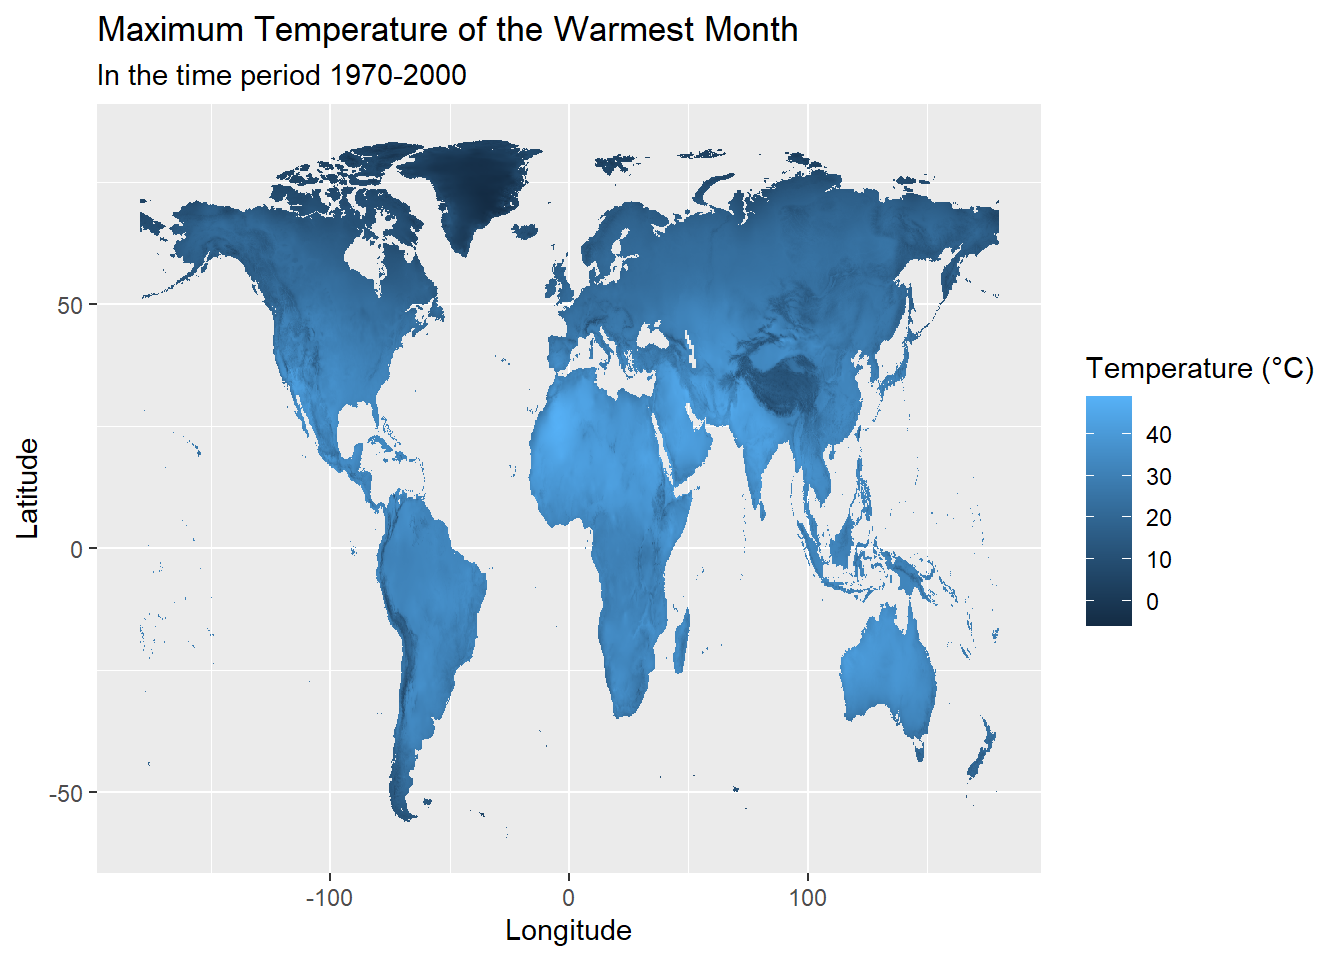
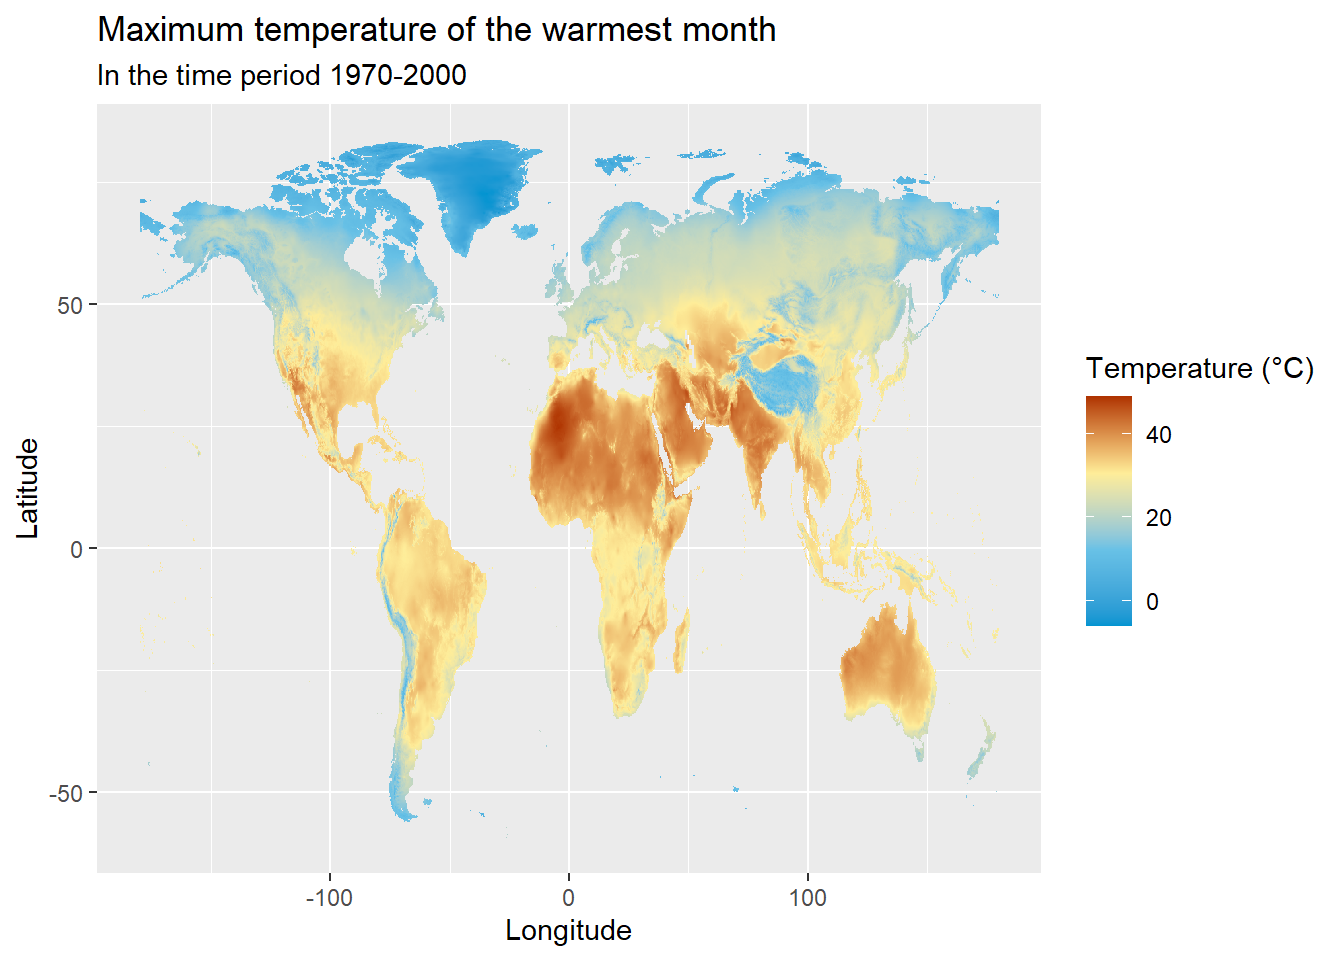
added Nigeria example to temperature tutorial

diff --git a/docs/temperature.html b/docs/temperature.html
@@ -435,26 +435,91 @@ tmax_data &lt;- getData(name = &quot;worldclim&quot;, var = &quot;tmax&quot;, re
 ## source     : C:/Users/acer/Desktop/rspatialdata.github.io/wc10/tmax5.bil 
 ## names      : tmax5 
 ## values     : -19, 44.1  (min, max)</code></pre>
-<p>It might also be important to get an average of the monthly maximum temperature values, which can be done as follows. Note how the RasterStack object is converted to a RasterLayer object with a single set of values.</p>
-<pre class="r"><code>tmax_mean &lt;- mean(tmax_data)
-tmax_mean</code></pre>
-<pre><code>## class      : RasterLayer 
-## dimensions : 900, 2160, 1944000  (nrow, ncol, ncell)
-## resolution : 0.1666667, 0.1666667  (x, y)
-## extent     : -180, 180, -60, 90  (xmin, xmax, ymin, ymax)
-## crs        : +proj=longlat +datum=WGS84 +no_defs 
-## source     : C:/Users/acer/AppData/Local/Temp/RtmpQ3RoHo/raster/r_tmp_2021-01-31_235507_9928_43074.grd 
-## names      : layer 
-## values     : -25, 38.03333  (min, max)</code></pre>
 </div>
-<div id="visualising-the-maximum-temperature-data-with-ggplot2" class="section level2">
-<h2>Visualising the Maximum temperature data with <code>ggplot2</code></h2>
+<div id="visualising-the-data-with-ggplot2" class="section level2">
+<h2>Visualising the data with <code>ggplot2</code></h2>
 <p>The <code>ggplot2</code> package provides the <code>geom_raster()</code> function, which can be used to easily visualise the downloaded temperature.</p>
-<p>The following example visualises the mean of the monthly maximum temperatures across the world. Before visualising the data, we first convert the RasterLayer object to a dataframe.</p>
-<pre class="r"><code># install.packages(c(&quot;ggplot2&quot;, &quot;magrittr&quot;))
+<p>The following example visualises the maximum temperature in May. Before visualising the data, we first convert the RasterLayer object to a dataframe, as follows.</p>
+<pre class="r"><code># install.packages(c(&quot;ggplot2&quot;))
+library(ggplot2)
+
+# Converting the raster object into a dataframe
+tmax_data_may_df &lt;- as.data.frame(tmax_data$tmax5, xy = TRUE, na.rm = TRUE)
+rownames(tmax_data_may_df) &lt;- c()
+
+ggplot(data = tmax_data_may_df,
+       aes(x=x,y=y)) +
+  geom_raster(aes(fill = tmax5)) +
+  labs(title = &quot;Maximum temperature in May&quot;,
+       subtitle = &quot;For the years 1970-2000&quot;) +
+  xlab(&quot;Longitude&quot;) +
+  ylab(&quot;Latitude&quot;) +
+  scale_fill_gradientn(name = &quot;Temperature (°C)&quot;,
+                       colours=c(&quot;#0094D1&quot;,&quot;#68C1E6&quot;, &quot;#FEED99&quot;,&quot;#AF3301&quot;),
+                       breaks = c(-20, 0, 20, 40))</code></pre>
+<p><img src="temperature_files/figure-html/visualise-may-maxtemp-1.png" width="672" /></p>
+</div>
+<div id="examples" class="section level2">
+<h2>Examples</h2>
+<div id="visualising-monthly-maximum-temperatures" class="section level3">
+<h3>Visualising monthly maximum temperatures</h3>
+<p>The following example visualises the maximum monthly temperatures for each month.</p>
+<pre class="r"><code># install.packages(c(&quot;raster&quot;, &quot;ggplot2&quot;, &quot;tidyverse&quot;))
+library(raster)
+library(ggplot2)
+library(tidyverse)
+
+# Downloading monthly maximum temperature data
+tmax_data &lt;- getData(name = &quot;worldclim&quot;, var = &quot;tmax&quot;, res = 10)
+
+# Converting temperature values to Celcius
+gain(tmax_data)=0.1
+
+# Converting the raster object into a dataframe
+tmax_data_df &lt;- as.data.frame(tmax_data, xy = TRUE, na.rm = TRUE)
+rownames(tmax_data_df) &lt;- c()
+
+# Renaming the month columns, Converting the dataframe into long format and converting month column into a factor
+tmax_data_df_long &lt;- tmax_data_df %&gt;%
+  rename(&quot;January&quot; = &quot;tmax1&quot;, &quot;February&quot; = &quot;tmax2&quot;, &quot;March&quot; = &quot;tmax3&quot;, &quot;April&quot; = &quot;tmax4&quot;,
+         &quot;May&quot; = &quot;tmax5&quot;, &quot;June&quot; = &quot;tmax6&quot;, &quot;July&quot; = &quot;tmax7&quot;, &quot;August&quot; = &quot;tmax8&quot;,
+         &quot;September&quot; = &quot;tmax9&quot;, &quot;October&quot; = &quot;tmax10&quot;, &quot;November&quot; = &quot;tmax11&quot;, &quot;December&quot; = &quot;tmax12&quot;) %&gt;%
+  pivot_longer(c(-x,-y), names_to = &quot;month&quot;, values_to = &quot;temp&quot;)
+
+tmax_data_df_long$month = factor(tmax_data_df_long$month, levels = month.name)
+
+tmax_data_df_long %&gt;%
+  ggplot(aes(x=x,y=y)) +
+  geom_raster(aes(fill = temp)) +
+  facet_wrap(~month) +
+  labs(title = &quot;Monthly maximum temperatures&quot;,
+       subtitle = &quot;For the years 1970-2000&quot;) +
+  xlab(&quot;Longitude&quot;) +
+  ylab(&quot;Latitude&quot;) +
+  scale_fill_gradientn(name = &quot;Temperature (°C)&quot;,
+                       colours=c(&quot;#006D9B&quot;,&quot;#0094D1&quot;,&quot;#68C1E6&quot;, &quot;#FEED99&quot;,&quot;#AF3301&quot;),
+                       breaks = c(-40, -20, 0, 20, 40))</code></pre>
+<p><img src="temperature_files/figure-html/visualise-monthly-maxtemp-example-1.png" width="672" /></p>
+</div>
+<div id="visualising-mean-monthly-temperature" class="section level3">
+<h3>Visualising mean monthly temperature</h3>
+<p>The WorldClim database provides the monthly maximum temperatures across the world, but it might also be important to visualise an annual average of these values. This can be done by averaging the monthly maximum temperature values.</p>
+<p>The following is a complete example of downloading monthly maximum temperature values, calculating their mean and visualising it.</p>
+<pre class="r"><code># install.packages(c(&quot;raster&quot;,&quot;ggplot2&quot;, &quot;magrittr&quot;))
+library(raster)
 library(ggplot2)
 library(magrittr)
 
+# Downloading monthly maximum temperature data
+tmax_data &lt;- getData(name = &quot;worldclim&quot;, var = &quot;tmax&quot;, res = 10)
+
+# Converting temperature values to Celcius
+gain(tmax_data)=0.1
+
+# Calculating mean of the monthly maximum temperatures
+tmax_mean &lt;- mean(tmax_data)
+
+# Converting the raster object into a dataframe
 tmax_mean_df &lt;- as.data.frame(tmax_mean, xy = TRUE, na.rm = TRUE)
 
 tmax_mean_df %&gt;%
@@ -464,34 +529,85 @@ tmax_mean_df %&gt;%
        subtitle = &quot;For the years 1970-2000&quot;) +
   xlab(&quot;Longitude&quot;) +
   ylab(&quot;Latitude&quot;) +
-  scale_fill_continuous(name = &quot;Temperature (°C)&quot;)</code></pre>
-<p><img src="temperature_files/figure-html/visualise-mean-maxtemp-1.png" width="672" /></p>
+  scale_fill_gradientn(name = &quot;Temperature (°C)&quot;,
+                       colours=c(&quot;#0094D1&quot;,&quot;#68C1E6&quot;, &quot;#FEED99&quot;,&quot;#AF3301&quot;),
+                       breaks = c(-20, 0, 20, 40))</code></pre>
+<p><img src="temperature_files/figure-html/visualise-mean-maxtemp-example-1.png" width="672" /></p>
 </div>
-<div id="examples" class="section level2">
-<h2>Examples</h2>
+<div id="visualising-mean-monthly-temperature-of-nigeria" class="section level3">
+<h3>Visualising mean monthly temperature of Nigeria</h3>
+<p>This example uses the same approach as the previous example but only extracts and visualises the mean monthly temperature in Nigeria.</p>
+<pre class="r"><code># install.packages(c(&quot;raster&quot;,&quot;ggplot2&quot;, &quot;magrittr&quot;, &quot;sf&quot;, &quot;rgeoboundaries&quot;))
+library(raster)
+library(ggplot2)
+library(magrittr)
+library(sf)
+library(rgeoboundaries)
+
+
+# Downloading monthly maximum temperature data
+tmax_data &lt;- getData(name = &quot;worldclim&quot;, var = &quot;tmax&quot;, res = 10)
+
+# Converting temperature values to Celcius
+gain(tmax_data)=0.1
+
+# Calculating mean of the monthly maximum temperatures
+tmax_mean &lt;- mean(tmax_data)
+
+# Downloading the boundary of Nigeria
+nigeria_sf &lt;- geoboundaries(&quot;Nigeria&quot;)
+
+# Extracting temperature data of Nigeria
+tmax_mean_ngeria &lt;- raster::crop(
+  raster::mask(tmax_mean, as_Spatial(nigeria_sf)),
+  as_Spatial(nigeria_sf)
+)
+
+# Converting the raster object into a dataframe
+tmax_mean_nigeria_df &lt;- as.data.frame(tmax_mean_ngeria, xy = TRUE, na.rm = TRUE)
+
+tmax_mean_nigeria_df %&gt;%
+  ggplot(aes(x=x,y=y)) +
+  geom_raster(aes(fill = layer)) +
+  geom_sf(data = nigeria_sf, inherit.aes = FALSE, fill=NA) +
+  labs(title = &quot;Mean monthly maximum temperatures in Nigeria&quot;,
+       subtitle = &quot;For the years 1970-2000&quot;) +
+  xlab(&quot;Longitude&quot;) +
+  ylab(&quot;Latitude&quot;) +
+  scale_fill_gradientn(name = &quot;Temperature (°C)&quot;,
+                       colours=c(&quot;#0094D1&quot;,&quot;#68C1E6&quot;, &quot;#FEED99&quot;,&quot;#AF3301&quot;),
+                       breaks = c(-20, 0, 20, 40))</code></pre>
+<p><img src="temperature_files/figure-html/unnamed-chunk-1-1.png" width="672" /></p>
+</div>
 <div id="visualising-bioclimatic-variables" class="section level3">
 <h3>Visualising bioclimatic variables</h3>
 <p>The list of 19 bioclimatic variables provided by the Worldclim database are derived from the monthly values, in order to generate more biologically meaningful variables.</p>
 <p>The complete list of variables and their codes can be found <a href="https://www.worldclim.org/data/bioclim.html">here</a></p>
-<p>The process of downloading and visualising these variables follows a similar approach to the tutorial, and the following is a complete example of downloading and visualising the “Maximum Temperature of the Warmest Month”.</p>
+<p>The process of downloading and visualising these variables follows a similar approach to the tutorial. The following is a complete example of downloading and visualising the “Maximum Temperature of the Warmest Month”.</p>
 <pre class="r"><code># install.packages(c(&quot;raster&quot;, &quot;ggplot2&quot;, &quot;magrittr&quot;))
 library(raster)
 library(ggplot2)
 library(magrittr)
 
+# Downloading bioclimatic data
 bio &lt;- getData(name = &quot;worldclim&quot;, var = &quot;bio&quot;, res = 10)
+
+# Converting temperature values to Celcius
 gain(bio)=0.1
 
+# Extracting only the 5th bioclimatic variable and onverting the raster object into a dataframe
 bio5_df &lt;- as.data.frame(bio$bio5, xy = TRUE, na.rm = TRUE)
 
 bio5_df %&gt;%
   ggplot(aes(x=x,y=y)) +
   geom_raster(aes(fill = bio5))  +
-  labs(title = &quot;Maximum Temperature of the Warmest Month&quot;,
+  labs(title = &quot;Maximum temperature of the warmest month&quot;,
        subtitle = &quot;In the time period 1970-2000&quot;) +
   xlab(&quot;Longitude&quot;) +
   ylab(&quot;Latitude&quot;) +
-  scale_fill_continuous(name = &quot;Temperature (°C)&quot;)</code></pre>
+  scale_fill_gradientn(name = &quot;Temperature (°C)&quot;,
+                       colours=c(&quot;#0094D1&quot;,&quot;#68C1E6&quot;, &quot;#FEED99&quot;,&quot;#AF3301&quot;),
+                       breaks = c(-20, 0, 20, 40))</code></pre>
 <p><img src="temperature_files/figure-html/warmest-month-maxtemp-example-1.png" width="672" /></p>
 </div>
 </div>
